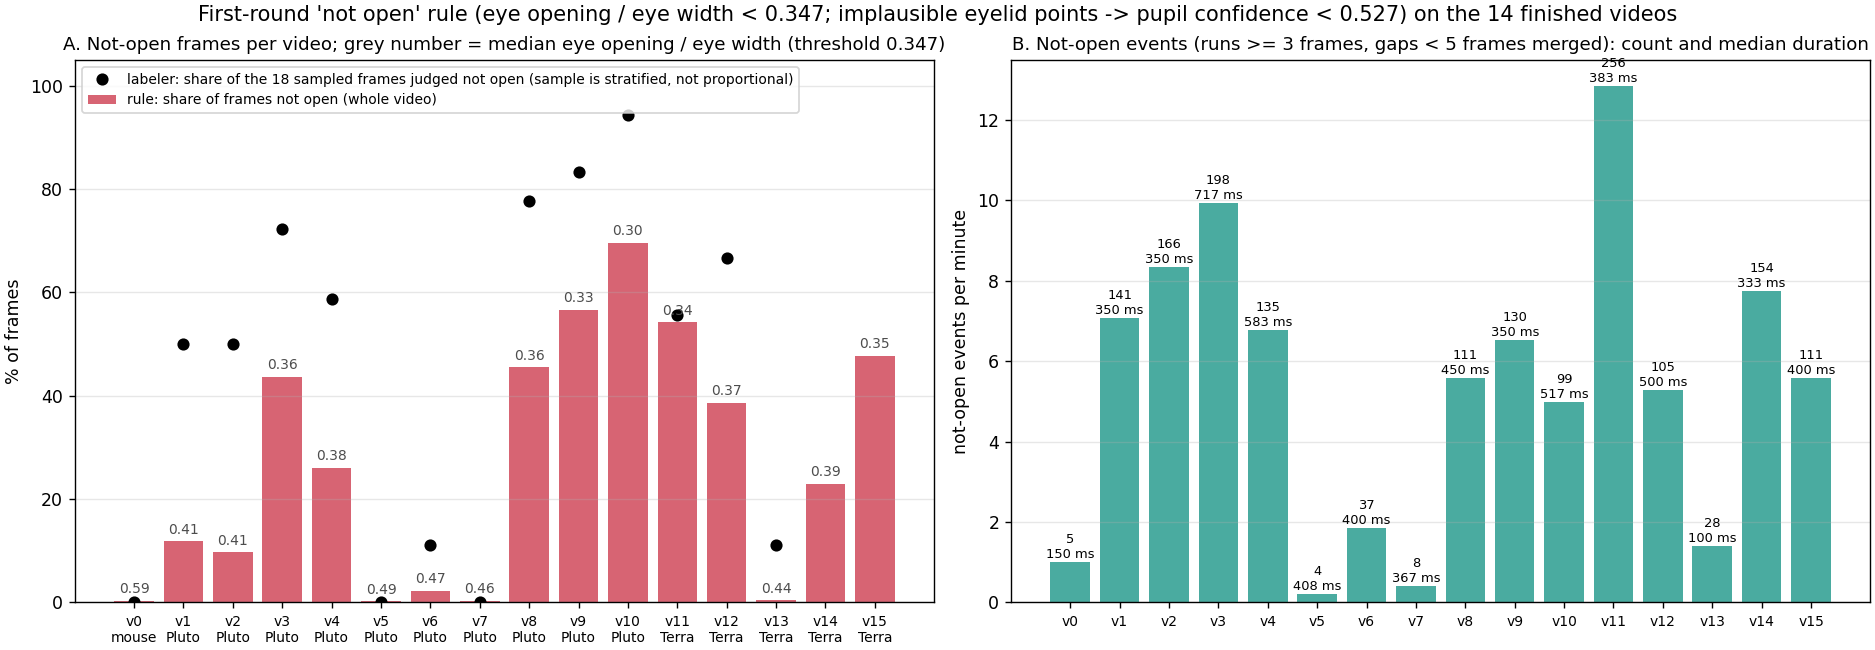
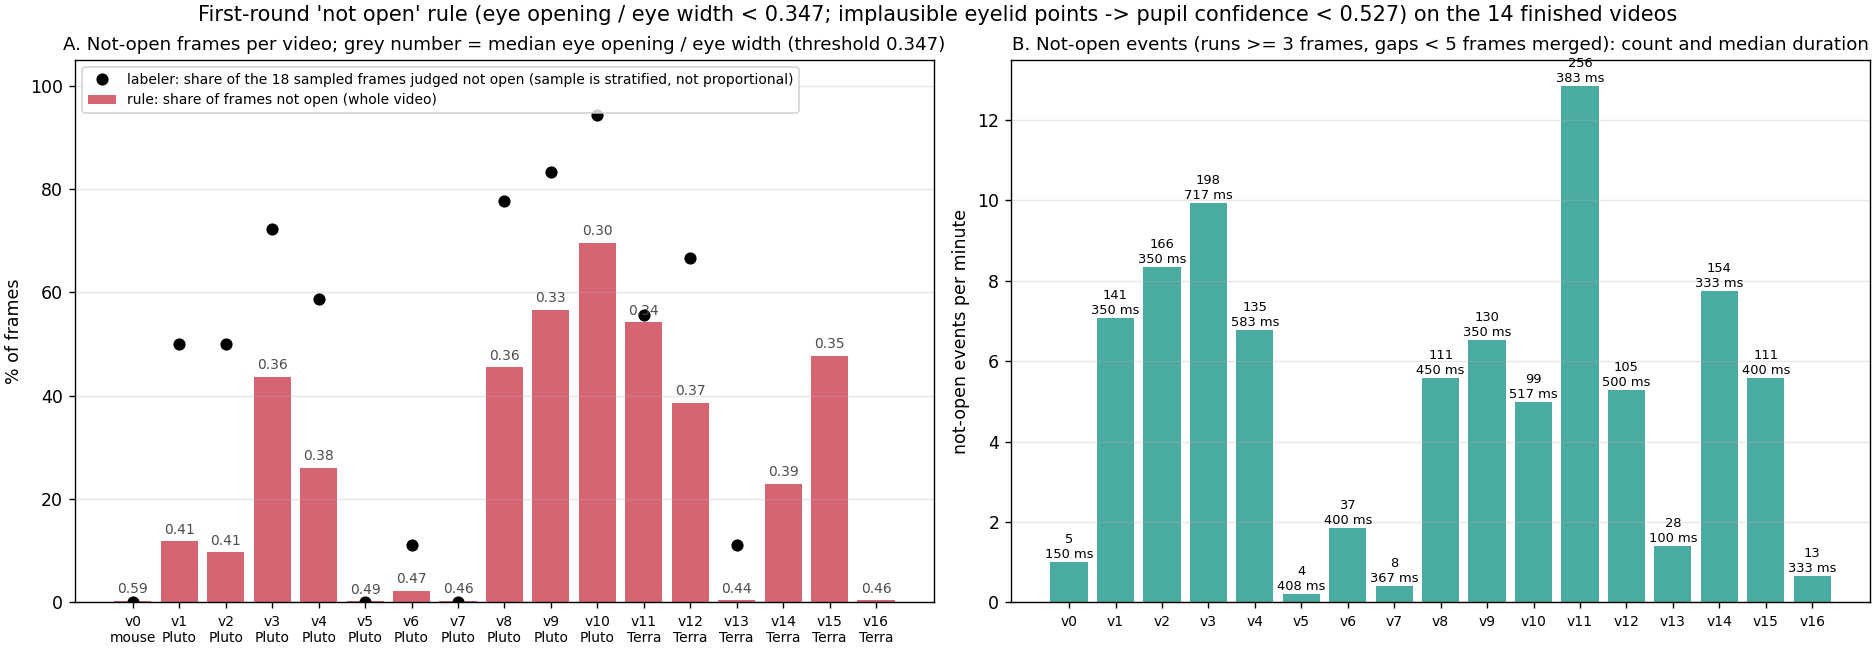
Not-open rule rerun with video 16 (0.4% not-open frames)

diff --git a/v2_new_pupil_top_video_scaling/results/blink_eyelid_distance/README.md b/v2_new_pupil_top_video_scaling/results/blink_eyelid_distance/README.md
@@ -150,7 +150,7 @@ recall - false-alarm rate); leave-one-video-out thresholds give precision 85%, r
 | rule D (relative, 10.1) for comparison | 239 | 113 | 72 | 72.4% | 75.0% | 47.8% |
 
 Whole videos (`blink_notopen_rule_all_videos.csv`, `blink_notopen_rule_events_all_videos.csv`, `blink_notopen_rule_summary.png`):
-not-open frames 0.2-0.4% on videos 0, 5, 7, 13; 2-12% on videos 1, 2, 6; 23% on video 14; **26-70% on videos 3, 4, 8, 9, 10, 11, 12 and 15** (video 15: 48%, added in the rerun of 2026-10-08)
+not-open frames 0.2-0.4% on videos 0, 5, 7, 13 and 16 (video 16: 0.4%, added in the rerun of 2026-10-10); 2-12% on videos 1, 2, 6; 23% on video 14; **26-70% on videos 3, 4, 8, 9, 10, 11, 12 and 15** (video 15: 48%, added in the rerun of 2026-10-08)
 (longest single not-open stretch 44-212 s). Events 0.2-12.8 per minute, median duration 100-717 ms; in the half-covered
 videos most events are re-closings between brief openings and are not blink counts. Blinks (brief full closures) are a
 subset of this state; separating them by depth and duration is the next round. Limits: one judge; threshold chosen on
